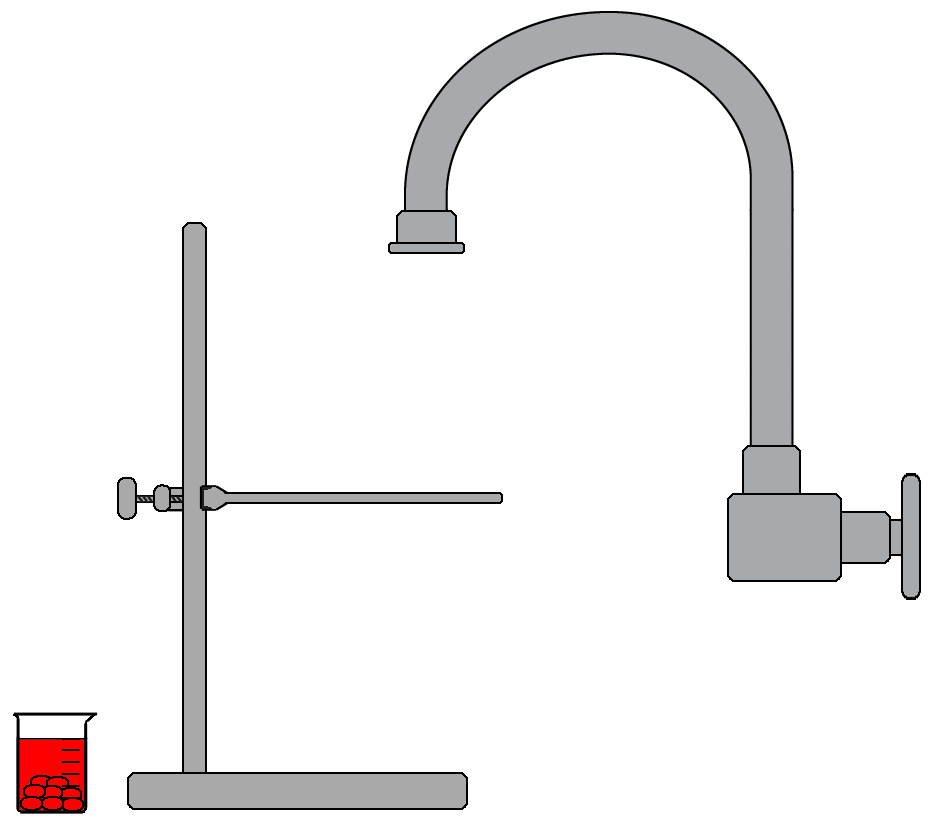
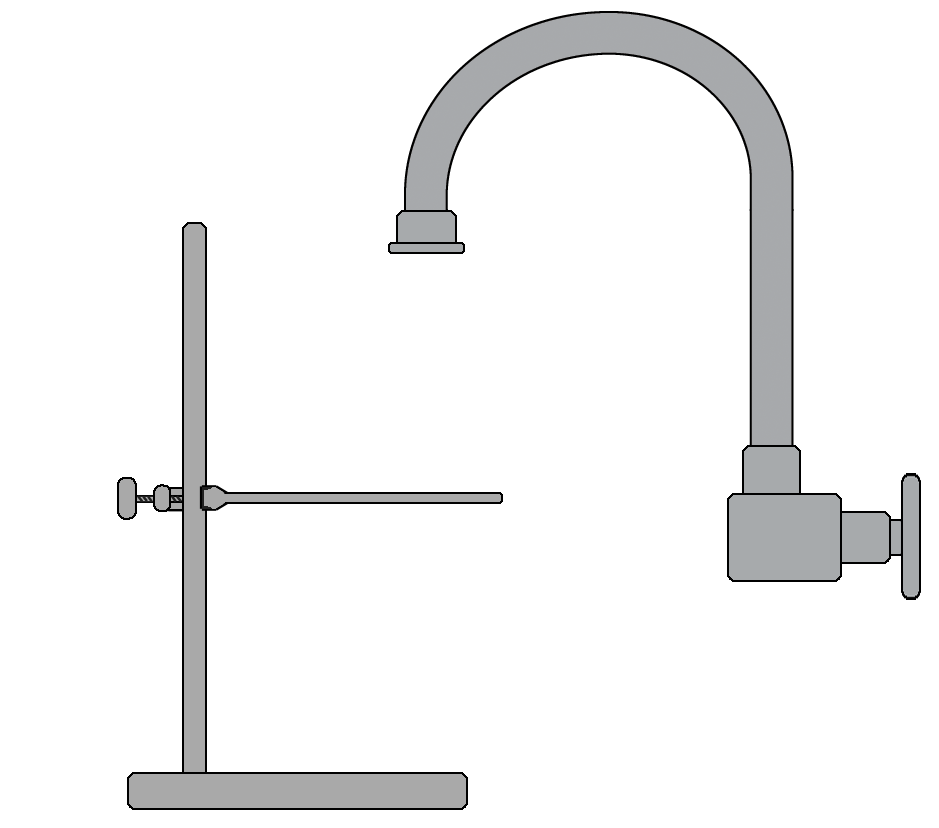
Cough drop: Re-added saturated beaker so it's clickable and not embedded in the static experiment img

Changed region(s): [[0.0, 0.8454, 0.0927, 0.9964]]

diff --git a/Priority_2_Thermodynamics/Steady_State/js/steadystate.js b/Priority_2_Thermodynamics/Steady_State/js/steadystate.js
@@ -478,25 +478,14 @@ function returnBeaker() {
 	splittime();
 	forceStop();
 	
-	var leftPx;
-	
-	if (currentBeaker == 0) {
-		leftPx = "-40px";
-	} else if (currentBeaker == 1) {
-		leftPx = "60px";
-	} else if (currentBeaker == 2) {
-		leftPx = "160px";
-	} else if (currentBeaker == 3) {
-		leftPx = "260px";
-	} else if (currentBeaker == 4) {
-		leftPx = "360px";
-	}
+	// Each beaker is positioned approx. 21% of the div's width apart
+	var leftPct = currentBeaker * 21 + "%";
 	
 	// Hide the empty beaker and solution by itself and return it to the original spot
 	$("#beaker" + currentBeaker).hide();
-	$("#solution" + currentConc).css({"top" : "760px"});
-	$("#beaker" + currentBeaker).css({"top": "815px", "left": leftPx});
-	$("#beakerSoln" + currentConc + "" + currentBeaker).animate({top: "815px", left: leftPx}, 1000, "linear");
+	$("#solution" + currentConc).css({"top" : "0%"});
+	$("#beaker" + currentBeaker).css({"top": "0%", "left": leftPct});
+	$("#beakerSoln" + currentConc + "" + currentBeaker).animate({top: "0%", left: leftPct}, 1000, "linear");
 	
 	// Updates beaker counter
 	currentBeaker++;
@@ -528,7 +517,9 @@ function setFadeTime(coughDropNum) {
 	if (fadeTime == Infinity)
 		fadeTime = Number.NaN;
 		
-	// If a valid time was calculated, set the time of the newly added cough drop to dissolve, along with having each animation update the opacity of the cough drop in case the user changes the flow rate, which will affect the dissolve rate of the remaining cough drop
+	// If a valid time was calculated, set the time of the newly added cough drop to dissolve, 
+	// along with having each animation update the opacity of the cough drop in case the user 
+	// changes the flow rate, which will affect the dissolve rate of the remaining cough drop
 	if (!isNaN(fadeTime)) {
 		if (coughDropNum == 0)
 			$("#coughDrop" + coughDropNum).animate({opacity: 0},

diff --git a/Priority_2_Thermodynamics/Steady_State/steadyState.html b/Priority_2_Thermodynamics/Steady_State/steadyState.html
@@ -49,6 +49,7 @@
         <img id="solutionFlow" name="solutionFlow" src="images/solution_low_flow.png" />
         <img id="faucetWaterBox" name="faucetWaterBox" src="images/faucet_water_box.png" />
         <img id="faucetWaterBoxBlocker" name="faucetWaterBoxBlocker" src="images/filling_water_blocker.png" />
+        <input type="image" id="beakerSaturated" name="beakerSaturated" src="images/beaker_saturated.png" />
 
         <!-- Flex containers for array of cough drops -->
         <div class="cough_drop_box cough_drop_box_row_1">

diff --git a/Priority_2_Thermodynamics/Steady_State/steadystate.css b/Priority_2_Thermodynamics/Steady_State/steadystate.css
@@ -295,6 +295,14 @@ img {
   width: 15.5%;
 }
 
+#beakerSaturated {
+  position: absolute;
+  width: 9%;
+  left: 2%;
+  top: 86%;
+  z-index: 2;
+}
+
 /* Misc. properties */
 
 #experimentMain {
